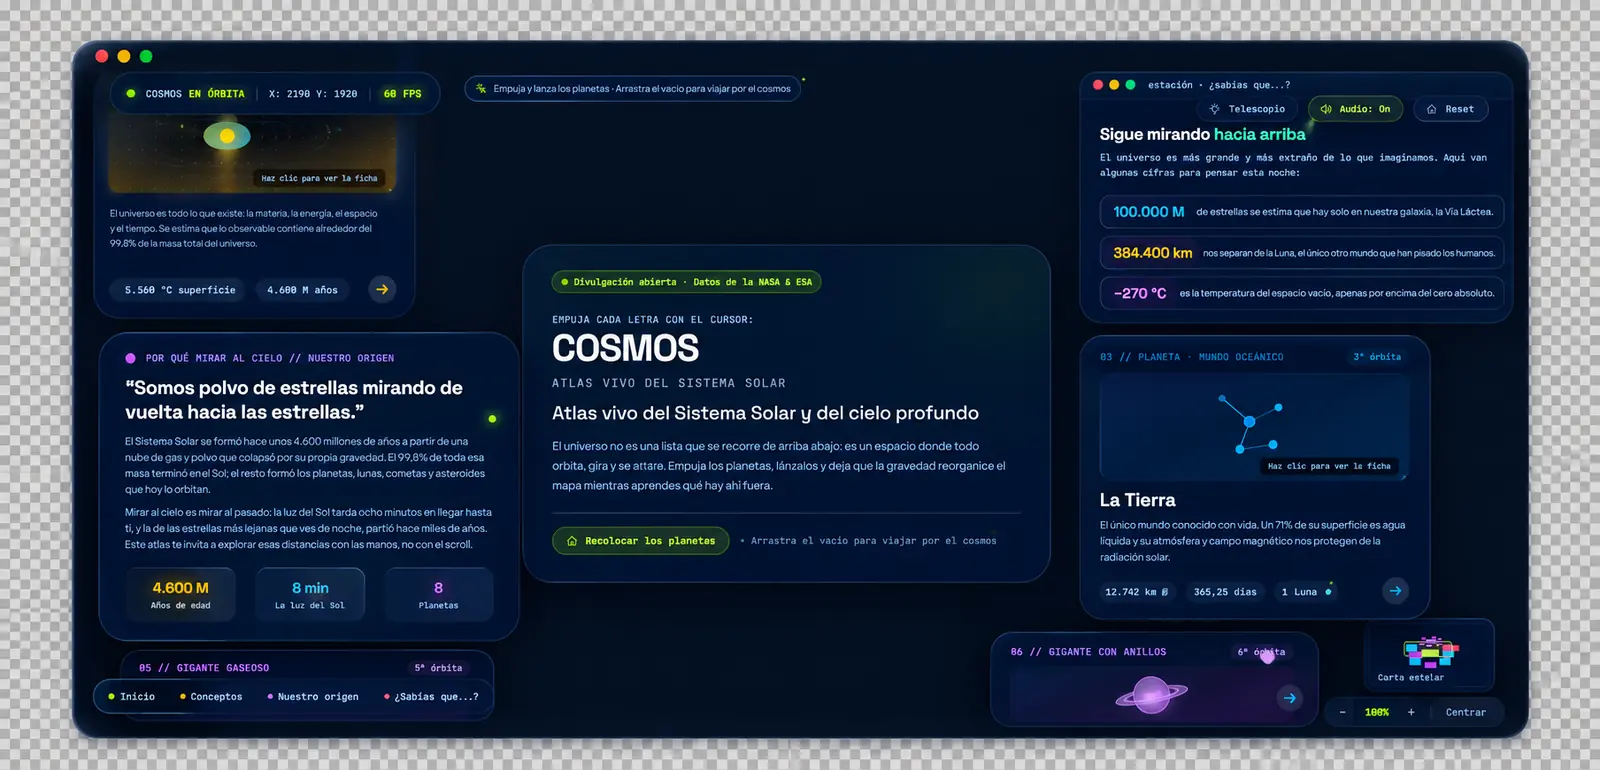
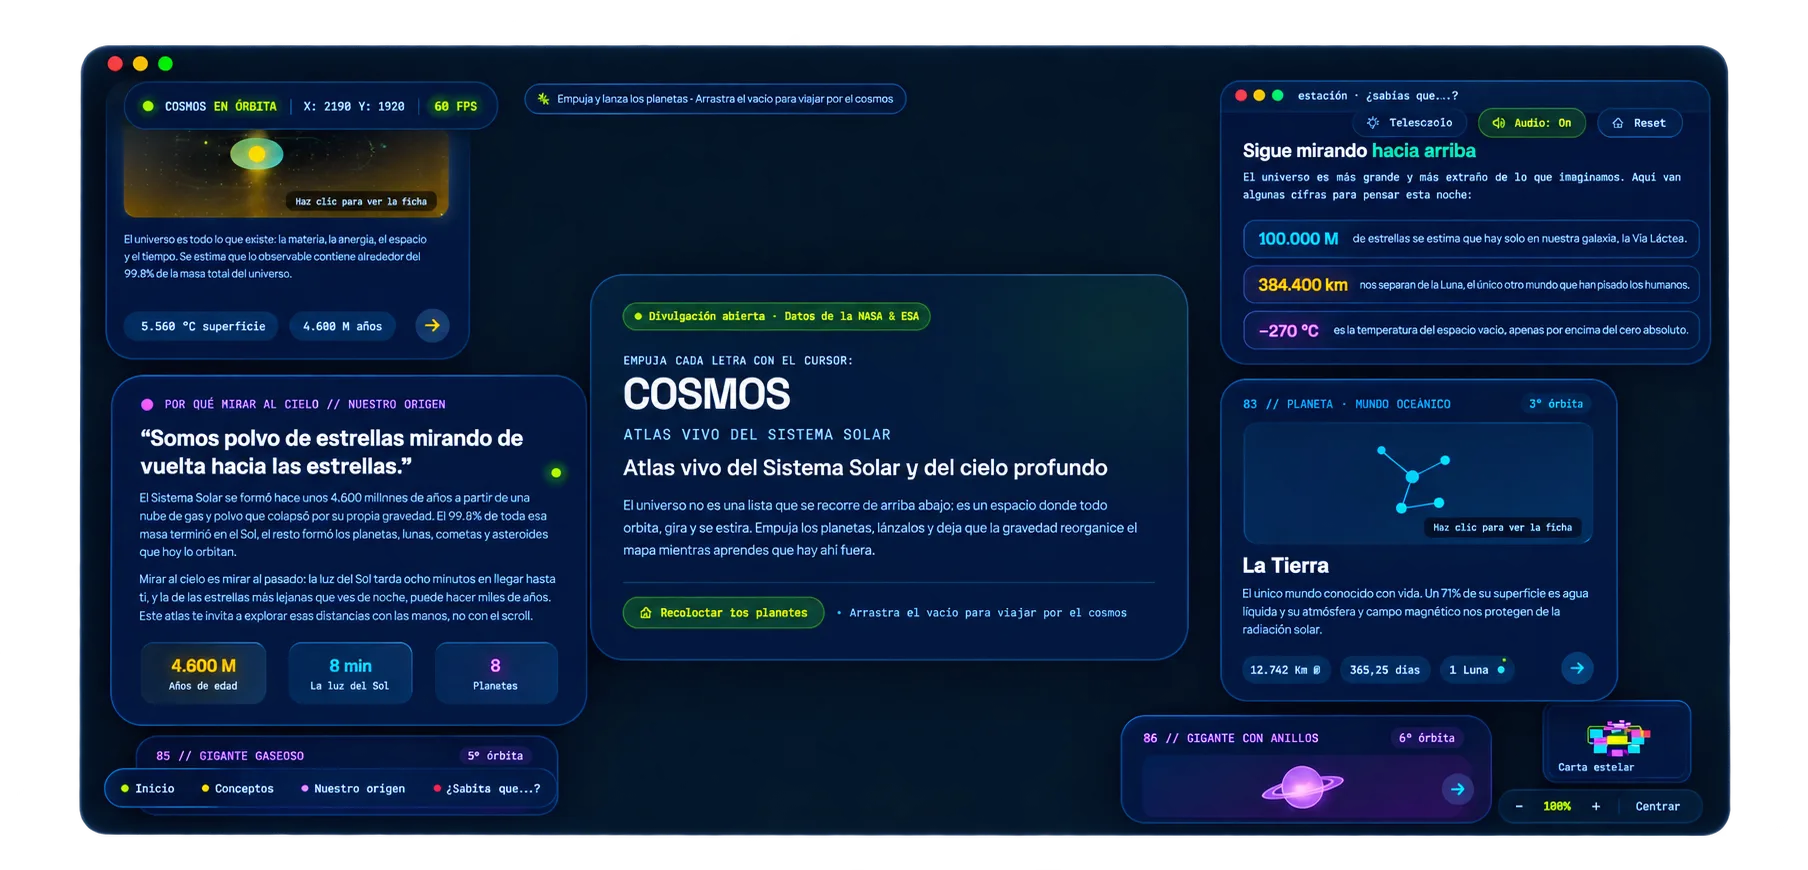
docs(projects): add Cosmos copy and optimized cover

diff --git a/src/data/projects.ts b/src/data/projects.ts
@@ -117,7 +117,7 @@ const projectSources: ProjectSource[] = [
   },
   {
     slug: 'cosmos',
-    stack: ['TypeScript', 'React', 'Tailwind'],
+    stack: ['Vite', 'React 19', 'TypeScript', 'Tailwind', 'Web Audio API', 'Canvas 2D'],
     year: '2026',
     image: '/projects/cosmos-logo.webp',
     cover: '/projects/cosmos-cover.webp',
@@ -128,13 +128,15 @@ const projectSources: ProjectSource[] = [
     i18n: {
       en: {
         title: 'Cosmos',
-        summary: 'Project summary coming soon.',
-        description: 'Full project description coming soon.',
+        summary: "An interactive Solar System you don't scroll through — you explore it.",
+        description:
+          'A playable landing page where the Solar System is something you handle, not something you read. Every planet is a physical object with mass, inertia, and gravity: drag it, throw it, and watch the map rearrange itself around it. It all lives on an infinite canvas fed with real data from NASA and ESA, so learning astronomy feels less like studying and more like playing with the universe in your hands.',
       },
       es: {
         title: 'Cosmos',
-        summary: 'Resumen del proyecto próximamente.',
-        description: 'Descripción completa del proyecto próximamente.',
+        summary: 'Un Sistema Solar interactivo que no se recorre con scroll: se explora.',
+        description:
+          'Una landing page jugable donde el Sistema Solar es algo que manejas, no algo que lees. Cada planeta es un objeto físico con masa, inercia y gravedad: lo arrastras, lo lanzas y ves cómo el mapa se reorganiza solo a su alrededor. Todo ocurre sobre un lienzo infinito alimentado con datos reales de la NASA y la ESA, para que aprender astronomía se sienta menos como estudiar y más como jugar con el universo entre las manos.',
       },
     },
   },
